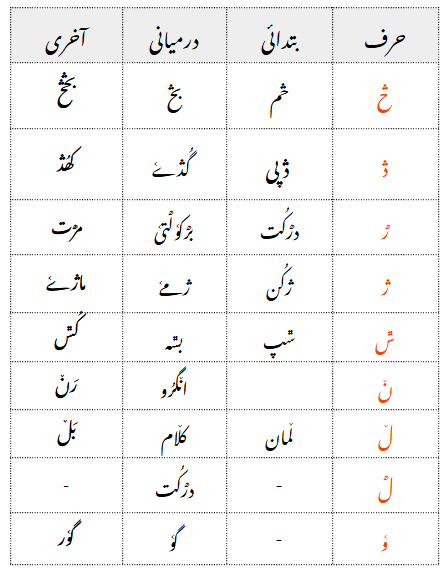
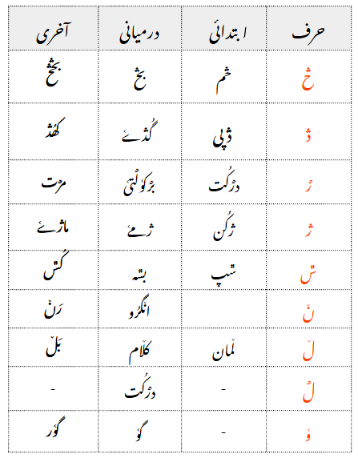
Responsive Page
There was a charter missing in the image illustration.
Also css file white-space nowrap was causing the page to be non-responsive.  I have removed it to resolve the issue of responsiveness in the help page.

diff --git a/release/b/burushaski_girminas_perso_arabic/source/help/stylesheet.css b/release/b/burushaski_girminas_perso_arabic/source/help/stylesheet.css
@@ -15,7 +15,6 @@ html,body,p{
     font-family: "burushaski";
     color:#504949;
     line-height: 1.5em;
-    white-space: nowrap;
 span {
     line-height: 150%;
 }  

diff --git a/release/b/burushaski_girminas_perso_arabic/source/help/burushaski_girminas_perso_arabic.php b/release/b/burushaski_girminas_perso_arabic/source/help/burushaski_girminas_perso_arabic.php
@@ -74,7 +74,7 @@
         یا رسم الخط کو دیکھتے ہیں۔</span></p>
     <p align="right"><img src="orthography.png" name="Burushaski Orthography" alt="Burushaski Orthography"
 
-        align="bottom" height="497" width="456" border="0">
+        align="bottom"  border="0">
     </p>
     <p align="right"><span lang="hi-IN"><span lang="hi-IN">اس گائید
           کا مقصد ربروشسکی رسم الخط سکھانا نہیں
@@ -105,7 +105,7 @@
         الفاظ کی تفصیل کچھ یو ں ہے۔</span></p>
     <p align="right"><img src="burushaski_additional_characters.png" name="Burushaski Additional Characters"
 
-        alt="Burushaski Additional Characters" align="bottom" height="572" width="447"
+        alt="Burushaski Additional Characters" align="bottom"
 
         border="0">
     </p>
@@ -134,9 +134,9 @@
     </p>
     <p align="right"><img src="bsk_perso_arabic_keyboard_keystrokes.png" name="Burushaski Keyboard Character layout"
 
-        alt="Burushaski Keyboard Character layout" align="bottom" hspace="9" height="257"
+        alt="Burushaski Keyboard Character layout" align="bottom" hspace="9" 
 
-        width="1032" vspace="9" border="0">
+         vspace="9" border="0">
     </p>
     <p align="right"><span lang="hi-IN">ا س کی بورڈ میں یہ
         دیکھایا گیا ہے کہ کونسا انگریزی حرف
@@ -148,9 +148,9 @@
     </p>
     <p align="right"><img src="key_combination_chart_equation.png" name="Burushaski Keyboard Key Strokes Combination"
 
-        alt="Burushaski Keyboard Key Strokes Combination" align="bottom" height="82"
+        alt="Burushaski Keyboard Key Strokes Combination" align="bottom" 
 
-        width="201" border="0">
+         border="0">
       <span lang="hi-IN"><br clear="left">
         <br clear="left">
       </span><span lang="hi-IN"><span lang="hi-IN">اگر
@@ -174,14 +174,14 @@
         بورڈ سے لکھی گئی ہے۔</span></p>
     <p align="right"><img src="yasin_text.png" name="Yasin Burushaski Text" alt="Yasin Burushaski Text"
 
-        align="bottom" height="501" width="462" border="0">
+        align="bottom"  border="0">
     </p>
     <p align="right"><span lang="hi-IN">اگر آپ موبائیل پر
         لکھنا چاہتے ہیں تو پھر بروشسکی کی بورڈ
         اپیپ ڈاون لوڈ کر لیجئے۔</span></p>
     <p align="right"><img src="hunza_nagar_text.png" name="Hunza Burushaski Text"
 
-        alt="Hunza Burushaski Text" align="bottom" height="362" width="463" border="0">
+        alt="Hunza Burushaski Text" align="bottom" border="0">
     </p>
     <p align="right"><br>
       <br>
